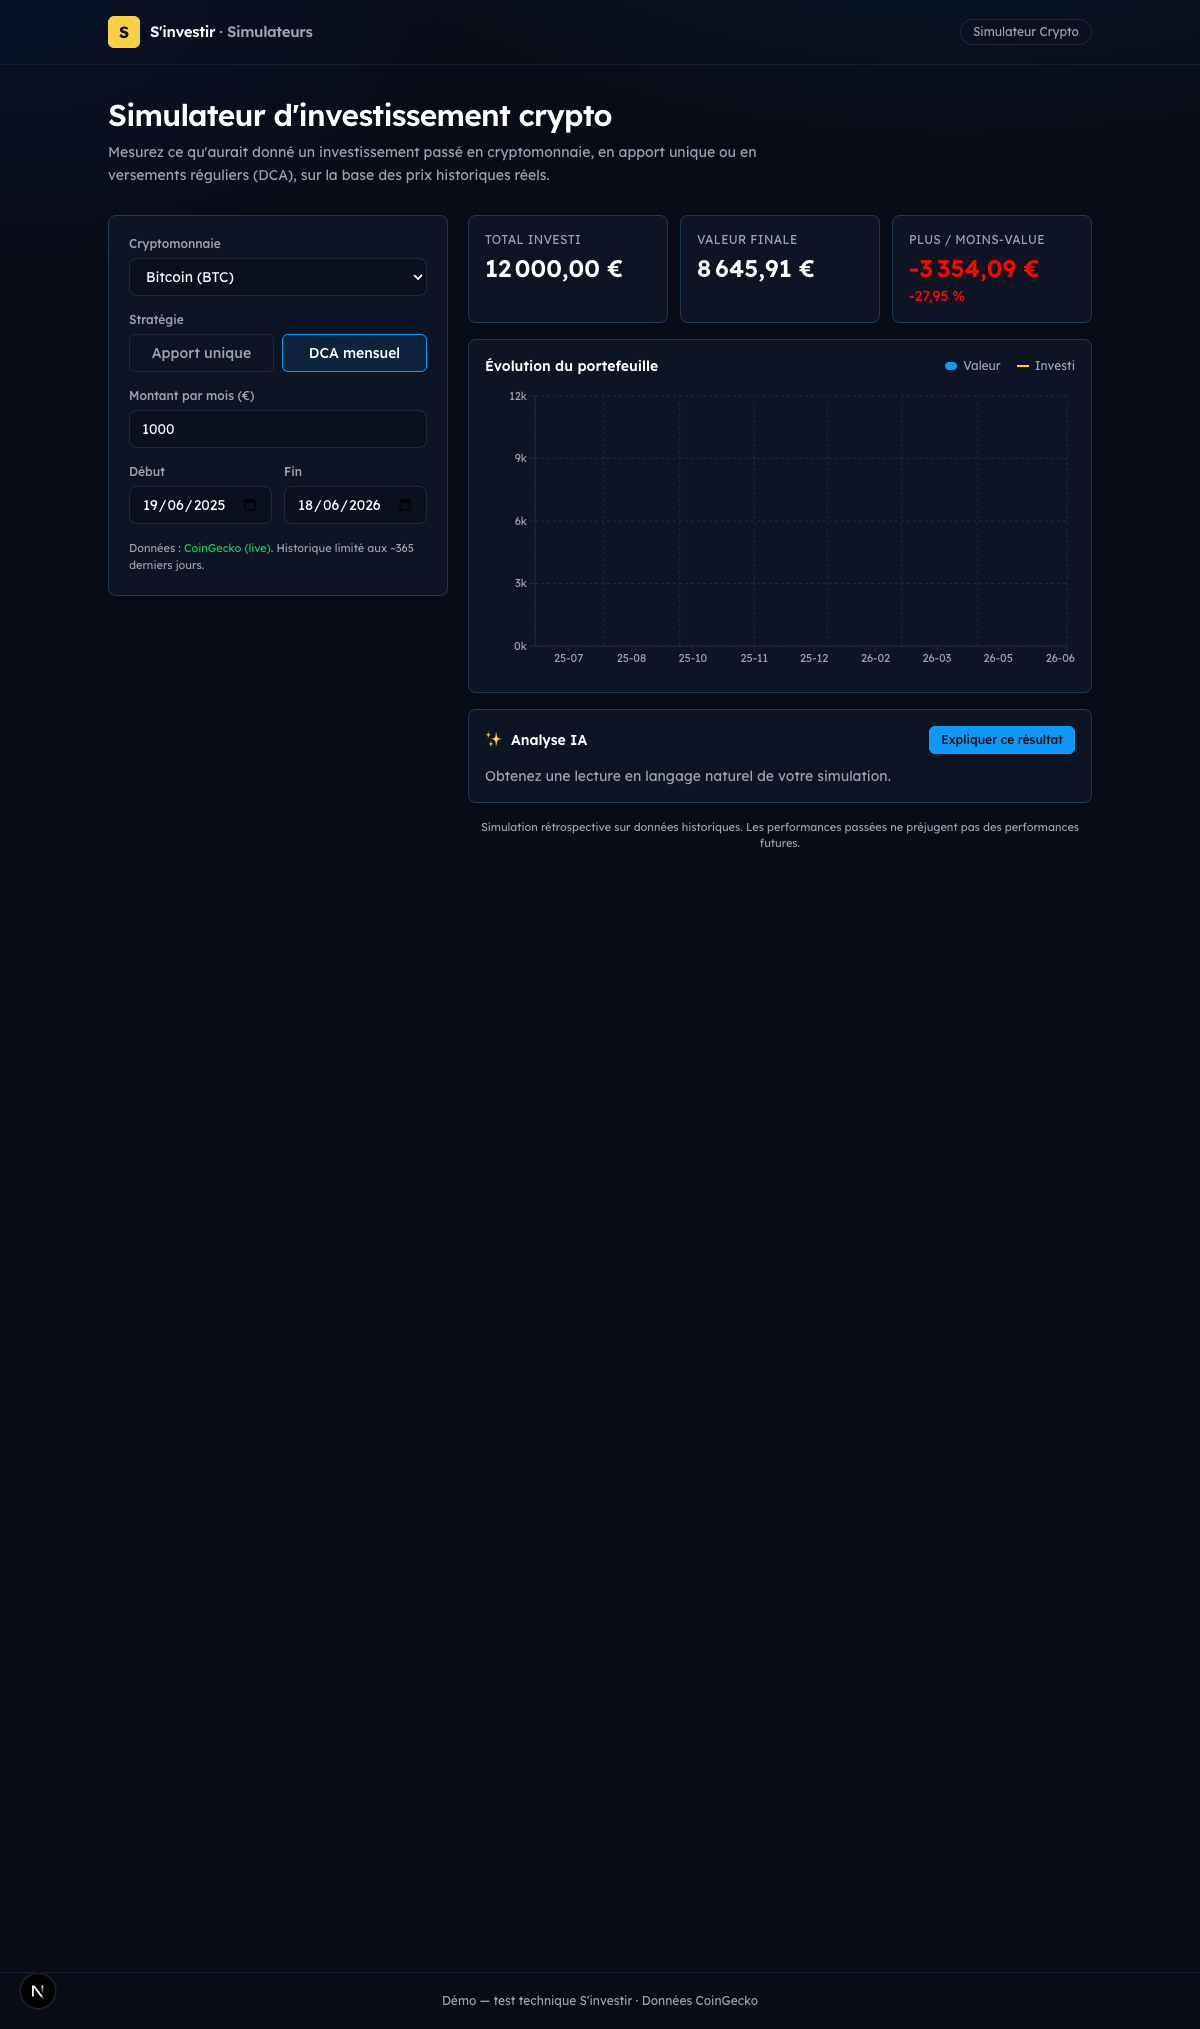
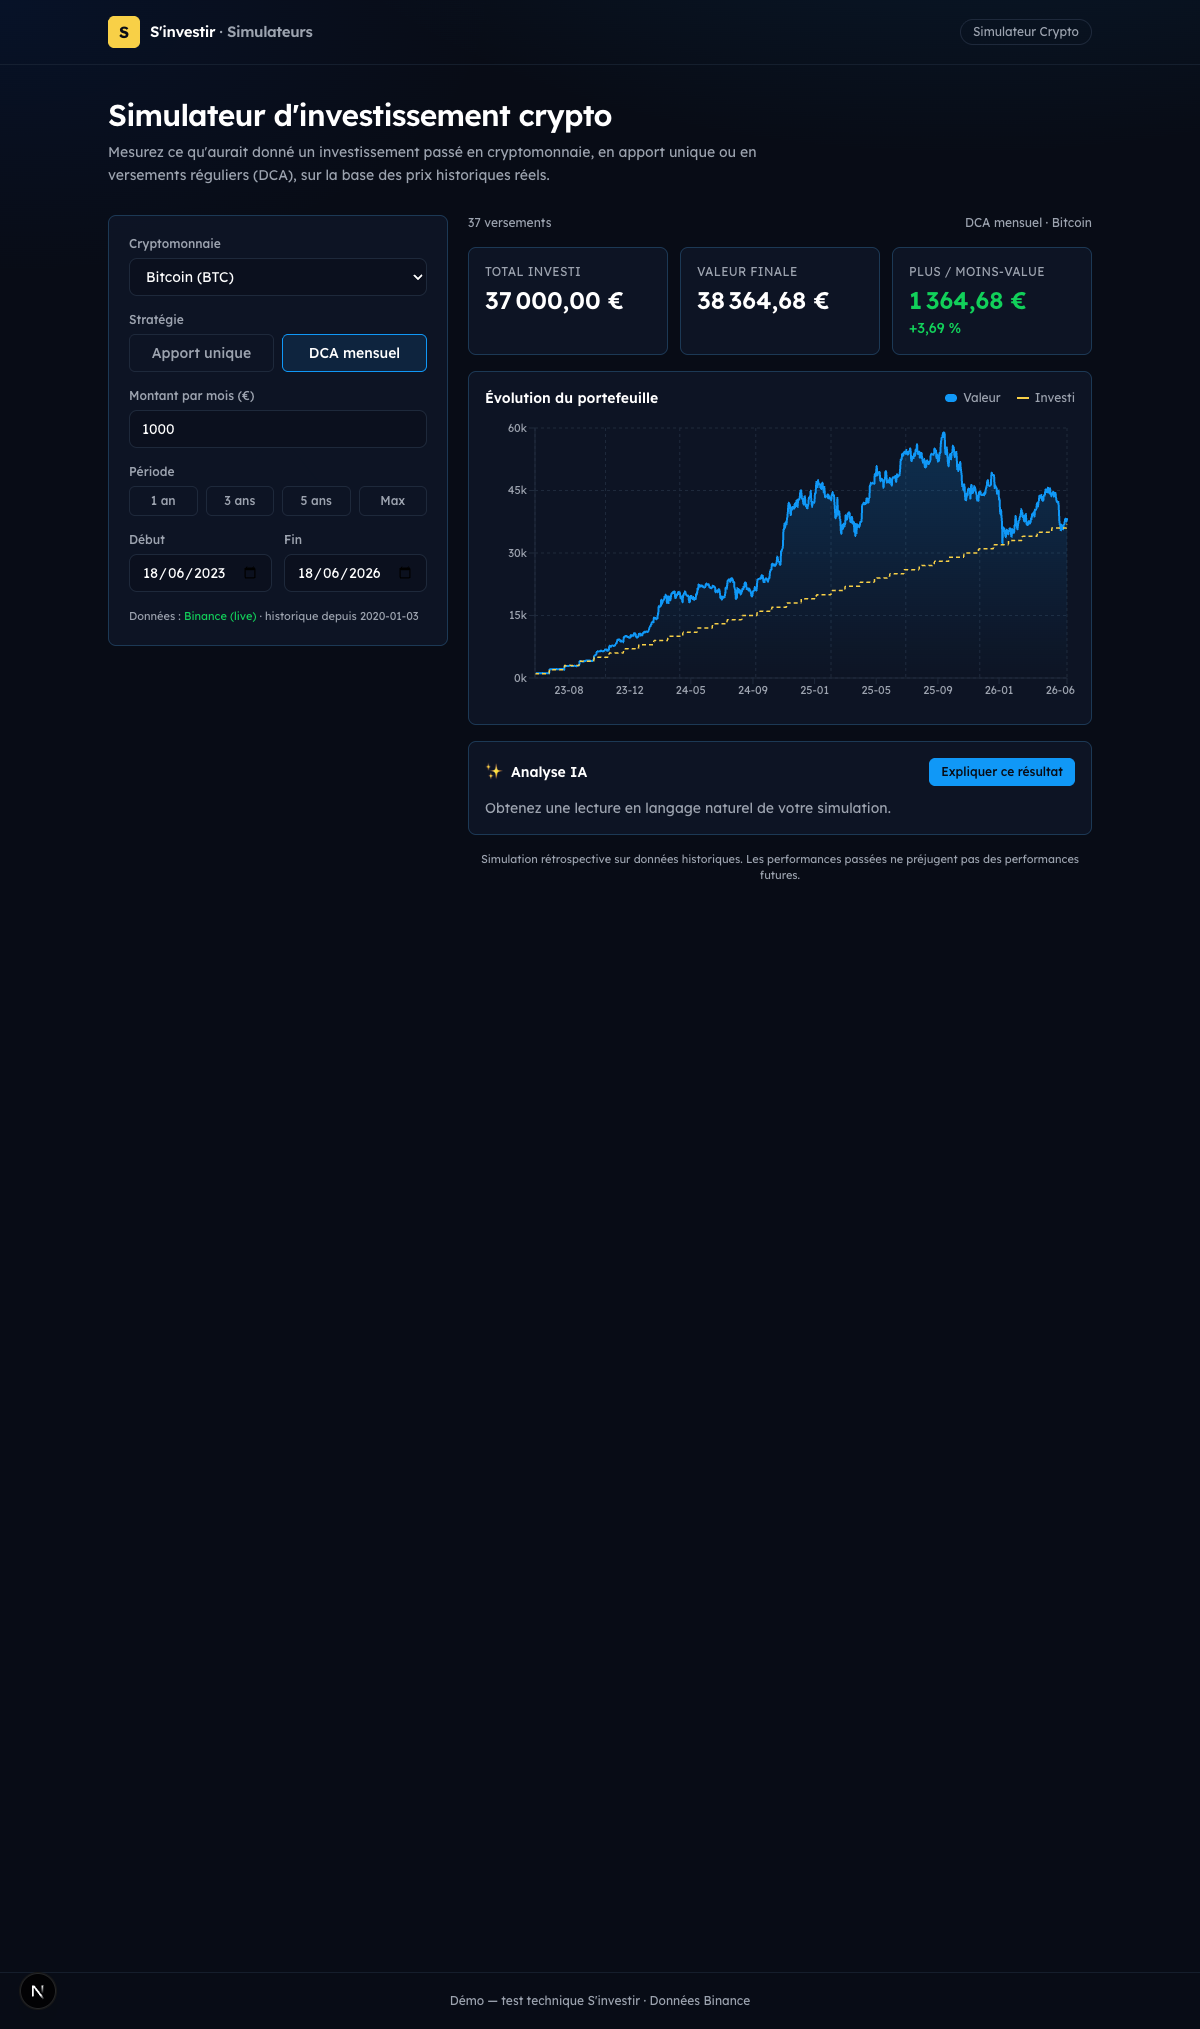
fix: champ montant effaçable, dates multi-années (Binance) + presets de période
- Bug champ montant: état texte (effacement/ressaisie OK, plus de 0 bloqué)
- Données Binance multi-années (BTC/ETH depuis 2020, SOL depuis 2021) au lieu de CoinGecko 365j
- Presets de période (1/3/5 ans, Max), bornes de date dynamiques sur tout l'historique
- Région Vercel fra1 (Binance bloque les IP US)
- Validation début<fin, états vides gérés

diff --git a/src/components/Simulator.tsx b/src/components/Simulator.tsx
@@ -8,6 +8,13 @@ import { ResultCards } from "./ResultCards";
 import { EvolutionChart } from "./EvolutionChart";
 import { AiExplanation } from "./AiExplanation";
 
+const PRESETS: { label: string; years: number | "max" }[] = [
+  { label: "1 an", years: 1 },
+  { label: "3 ans", years: 3 },
+  { label: "5 ans", years: 5 },
+  { label: "Max", years: "max" },
+];
+
 /**
  * Composant autonome et embarquable.
  * Aucune dépendance à un état global : il peut être déposé tel quel dans
@@ -15,7 +22,8 @@ import { AiExplanation } from "./AiExplanation";
  */
 export function Simulator() {
   const [coinId, setCoinId] = useState("bitcoin");
-  const [amount, setAmount] = useState(1000);
+  // Le montant est stocké en texte pour permettre l'effacement du champ.
+  const [amountText, setAmountText] = useState("1000");
   const [frequency, setFrequency] = useState<Frequency>("monthly");
   const [startDate, setStartDate] = useState("");
   const [endDate, setEndDate] = useState("");
@@ -24,6 +32,8 @@ export function Simulator() {
   const [source, setSource] = useState<"live" | "snapshot" | null>(null);
   const [loading, setLoading] = useState(true);
   const [error, setError] = useState<string | null>(null);
+
+  const amount = Math.max(0, Number(amountText.replace(",", ".")) || 0);
 
   // Charge les prix à chaque changement de crypto.
   useEffect(() => {
@@ -38,8 +48,11 @@ export function Simulator() {
         setPrices(pts);
         setSource(data.source ?? null);
         if (pts.length > 0) {
-          setStartDate(pts[0].date);
-          setEndDate(pts[pts.length - 1].date);
+          const min = pts[0].date;
+          const max = pts[pts.length - 1].date;
+          // Période par défaut : 3 dernières années (ou tout l'historique si plus court).
+          setEndDate(max);
+          setStartDate(maxIso(subYears(max, 3), min));
         }
       })
       .catch(() => !cancelled && setError("Chargement des prix impossible."))
@@ -49,10 +62,19 @@ export function Simulator() {
     };
   }, [coinId]);
 
+  const bounds = useMemo(
+    () =>
+      prices.length > 0
+        ? { min: prices[0].date, max: prices[prices.length - 1].date }
+        : { min: "", max: "" },
+    [prices],
+  );
+
   const input: SimulationInput = { coinId, amount, frequency, startDate, endDate };
 
   const result = useMemo(() => {
     if (prices.length === 0 || !startDate || !endDate || amount <= 0) return null;
+    if (startDate > endDate) return null;
     try {
       return simulate(input, prices);
     } catch {
@@ -61,14 +83,14 @@ export function Simulator() {
     // eslint-disable-next-line react-hooks/exhaustive-deps
   }, [prices, coinId, amount, frequency, startDate, endDate]);
 
+  function applyPreset(years: number | "max") {
+    if (!bounds.max) return;
+    setEndDate(bounds.max);
+    setStartDate(years === "max" ? bounds.min : maxIso(subYears(bounds.max, years), bounds.min));
+  }
+
   const coin = getCoin(coinId)!;
-  const bounds = useMemo(
-    () =>
-      prices.length > 0
-        ? { min: prices[0].date, max: prices[prices.length - 1].date }
-        : { min: "", max: "" },
-    [prices],
-  );
+  const invalidRange = Boolean(startDate && endDate && startDate > endDate);
 
   return (
     <div className="grid grid-cols-1 gap-5 lg:grid-cols-[340px_1fr]">
@@ -103,18 +125,31 @@ export function Simulator() {
         </Field>
 
         <Field
-          label={
-            frequency === "lump" ? "Montant investi (€)" : "Montant par mois (€)"
-          }
+          label={frequency === "lump" ? "Montant investi (€)" : "Montant par mois (€)"}
         >
           <input
-            type="number"
-            min={1}
-            step={50}
+            type="text"
+            inputMode="decimal"
+            placeholder="1000"
             className="field w-full px-3 py-2 text-sm tabular-nums"
-            value={amount}
-            onChange={(e) => setAmount(Number(e.target.value))}
+            value={amountText}
+            onChange={(e) => setAmountText(e.target.value.replace(/[^\d.,]/g, ""))}
           />
+        </Field>
+
+        <Field label="Période">
+          <div className="grid grid-cols-4 gap-2">
+            {PRESETS.map((p) => (
+              <button
+                key={p.label}
+                type="button"
+                onClick={() => applyPreset(p.years)}
+                className="rounded-md border border-border px-2 py-1.5 text-xs font-medium text-muted transition hover:border-brand hover:text-foreground"
+              >
+                {p.label}
+              </button>
+            ))}
+          </div>
         </Field>
 
         <div className="grid grid-cols-2 gap-3">
@@ -140,16 +175,22 @@ export function Simulator() {
           </Field>
         </div>
 
+        {invalidRange && (
+          <p className="text-xs" style={{ color: "var(--loss)" }}>
+            La date de début doit précéder la date de fin.
+          </p>
+        )}
+
         <p className="text-[11px] leading-relaxed text-muted">
           Données :{" "}
           {source === "live" ? (
-            <span style={{ color: "var(--gain)" }}>CoinGecko (live)</span>
+            <span style={{ color: "var(--gain)" }}>Binance (live)</span>
           ) : source === "snapshot" ? (
             <span style={{ color: "var(--gold)" }}>snapshot local (fallback)</span>
           ) : (
             "…"
           )}
-          . Historique limité aux ~365 derniers jours.
+          {bounds.min && ` · historique depuis ${bounds.min}`}
         </p>
       </form>
 
@@ -167,8 +208,25 @@ export function Simulator() {
           </div>
         )}
 
+        {!loading && !result && !error && (
+          <div className="card-glass p-8 text-center text-sm text-muted">
+            {amount <= 0
+              ? "Saisissez un montant pour lancer la simulation."
+              : "Ajustez la période pour voir un résultat."}
+          </div>
+        )}
+
         {result && (
           <>
+            <div className="flex items-center justify-between text-xs text-muted">
+              <span>
+                {result.contributions} versement{result.contributions > 1 ? "s" : ""}
+              </span>
+              <span>
+                {frequency === "monthly" ? "DCA mensuel" : "Apport unique"} ·{" "}
+                {coin.name}
+              </span>
+            </div>
             <ResultCards result={result} />
             <EvolutionChart series={result.series} />
             <AiExplanation input={input} result={result} coinName={coin.name} />
@@ -181,6 +239,17 @@ export function Simulator() {
       </div>
     </div>
   );
+}
+
+/** Soustrait n années à une date ISO (YYYY-MM-DD). */
+function subYears(iso: string, n: number): string {
+  const [y, m, d] = iso.split("-").map(Number);
+  return `${y - n}-${String(m).padStart(2, "0")}-${String(d).padStart(2, "0")}`;
+}
+
+/** Renvoie la plus grande des deux dates ISO. */
+function maxIso(a: string, b: string): string {
+  return a >= b ? a : b;
 }
 
 function Field({ label, children }: { label: string; children: React.ReactNode }) {

diff --git a/src/lib/prices.ts b/src/lib/prices.ts
@@ -3,20 +3,27 @@ import snapshot from "@/data/snapshot.json";
 
 const SNAPSHOT = snapshot as Record<string, PricePoint[]>;
 
+/** Mapping vers les paires EUR de Binance. */
+const BINANCE_PAIR: Record<string, string> = {
+  bitcoin: "BTCEUR",
+  ethereum: "ETHEUR",
+  solana: "SOLEUR",
+};
+
 export interface PricesResult {
   prices: PricePoint[];
-  /** "live" si CoinGecko a répondu, "snapshot" si on est retombé sur le fallback. */
+  /** "live" si Binance a répondu, "snapshot" si on est retombé sur le fallback. */
   source: "live" | "snapshot";
 }
 
 /**
  * Récupère l'historique journalier (EUR) d'une crypto.
- * Stratégie hybride : CoinGecko en live, repli sur le snapshot embarqué en cas d'échec
- * (API down, quota dépassé, hors-ligne).
+ * Stratégie hybride : Binance en live (multi-années), repli sur le snapshot
+ * embarqué en cas d'échec (API down, géo-blocage, hors-ligne).
  */
 export async function getPrices(coinId: string): Promise<PricesResult> {
   try {
-    const live = await fetchFromCoinGecko(coinId);
+    const live = await fetchFromBinance(coinId);
     if (live.length > 0) return { prices: live, source: "live" };
   } catch {
     // on bascule sur le fallback ci-dessous
@@ -24,32 +31,39 @@ export async function getPrices(coinId: string): Promise<PricesResult> {
   return { prices: SNAPSHOT[coinId] ?? [], source: "snapshot" };
 }
 
-async function fetchFromCoinGecko(coinId: string): Promise<PricePoint[]> {
-  const url =
-    `https://api.coingecko.com/api/v3/coins/${coinId}/market_chart` +
-    `?vs_currency=eur&days=365`;
+async function fetchFromBinance(coinId: string): Promise<PricePoint[]> {
+  const symbol = BINANCE_PAIR[coinId];
+  if (!symbol) return [];
 
-  const res = await fetch(url, {
-    headers: { Accept: "application/json" },
-    // Cache CoinGecko 1h côté serveur Next pour limiter les appels / le quota.
-    next: { revalidate: 3600 },
-  });
-  if (!res.ok) throw new Error(`CoinGecko ${res.status}`);
-
-  const data = (await res.json()) as { prices: [number, number][] };
   const byDay = new Map<string, number>();
-  for (const [ms, price] of data.prices) {
-    const date = new Date(ms).toISOString().slice(0, 10);
-    byDay.set(date, Math.round(price * 100) / 100); // dernier prix du jour
+  let endTime: number | undefined;
+
+  // Pagination : Binance limite à 1000 bougies/appel. On remonte jusqu'à ~8 ans.
+  for (let i = 0; i < 3; i++) {
+    let url =
+      `https://api.binance.com/api/v3/klines` +
+      `?symbol=${symbol}&interval=1d&limit=1000`;
+    if (endTime) url += `&endTime=${endTime}`;
+
+    const res = await fetch(url, {
+      headers: { Accept: "application/json" },
+      // Cache 1h côté serveur Next pour limiter les appels.
+      next: { revalidate: 3600 },
+    });
+    if (!res.ok) throw new Error(`Binance ${res.status}`);
+
+    const klines = (await res.json()) as [number, string, string, string, string][];
+    if (!Array.isArray(klines) || klines.length === 0) break;
+
+    for (const k of klines) {
+      const date = new Date(k[0]).toISOString().slice(0, 10);
+      byDay.set(date, Math.round(parseFloat(k[4]) * 100) / 100); // close
+    }
+    endTime = klines[0][0] - 1; // juste avant la plus ancienne bougie
+    if (klines.length < 1000) break;
   }
+
   return [...byDay.entries()]
     .map(([date, price]) => ({ date, price }))
     .sort((a, b) => a.date.localeCompare(b.date));
-}
-
-/** Bornes de dates disponibles (basées sur le snapshot, ~365 derniers jours). */
-export function availableRange(coinId: string): { min: string; max: string } {
-  const s = SNAPSHOT[coinId] ?? [];
-  if (s.length === 0) return { min: "", max: "" };
-  return { min: s[0].date, max: s[s.length - 1].date };
 }

diff --git a/src/app/page.tsx b/src/app/page.tsx
@@ -19,7 +19,7 @@ export default function Home() {
         <Simulator />
       </main>
       <footer className="border-t border-border/60 py-5 text-center text-xs text-muted">
-        Démo — test technique S&apos;investir · Données CoinGecko
+        Démo — test technique S&apos;investir · Données Binance
       </footer>
     </>
   );

diff --git a/README.md b/README.md
@@ -16,7 +16,8 @@ Transposition du [simulateur crypto S'investir](https://sinvestir.fr/simulateur-
 - Deux stratégies : **apport unique** (lump sum) et **DCA mensuel** (versements réguliers).
 - Résultats : total investi, valeur finale, **plus/moins-value (€ et %)** + **graphique d'évolution** (valeur vs investi).
 - **Analyse IA** : explication du résultat en langage naturel (modèle Claude via OpenRouter).
-- Données de prix **hybrides** : CoinGecko en live, **repli automatique** sur un snapshot local si l'API échoue.
+- Données de prix **hybrides** : Binance en live (historique **multi-années**), **repli automatique** sur un snapshot local si l'API échoue.
+- **Présélections de période** (1 an / 3 ans / 5 ans / Max) en plus du choix de dates libre.
 - Thème fidèle à `simulateurs.sinvestir.fr`, **responsive** desktop/mobile.
 
 ## 🚀 Lancer en local
@@ -38,7 +39,7 @@ pnpm dev                     # http://localhost:3000
 
 ## 🧱 Stack & partis pris
 
-**Next.js 16 (App Router) · TypeScript · Tailwind v4 · Lexend · Recharts · CoinGecko · OpenRouter (Claude) · Vercel.**
+**Next.js 16 (App Router) · TypeScript · Tailwind v4 · Lexend · Recharts · Binance API · OpenRouter (Claude) · Vercel.**
 
 - **Next.js plutôt que Nuxt** : le site vitrine `simulateurs.sinvestir.fr` est en Nuxt/Vue,
   mais la **stack interne annoncée** par S'investir est **Next.js + Supabase + Vercel**.
@@ -46,9 +47,11 @@ pnpm dev                     # http://localhost:3000
   agents IA, automatisations) tout en **reproduisant fidèlement le rendu visuel** du site.
 - **Tailwind v4** : le site cible est lui-même en Tailwind v4 (tokens OKLCH) → cohérence directe.
   La charte est centralisée en variables CSS (`src/app/globals.css`, cf. [docs/DESIGN-TOKENS.md](./docs/DESIGN-TOKENS.md)).
-- **Données hybrides (live + fallback)** : CoinGecko gratuit est limité à ~365 jours et peut
-  rate-limiter ; un snapshot embarqué (`src/data/snapshot.json`) garantit une **démo toujours
-  fonctionnelle**, même hors-ligne ou en cas de quota dépassé.
+- **Données hybrides (live + fallback)** : l'API publique **Binance** (paires EUR, sans clé)
+  fournit un historique journalier **multi-années** ; un snapshot embarqué
+  (`src/data/snapshot.json`) garantit une **démo toujours fonctionnelle**, même hors-ligne
+  ou en cas d'indisponibilité de l'API. Les fonctions serveur sont déployées en région
+  **Europe (`fra1`)** car l'API Binance bloque les IP US (région Vercel par défaut).
 - **Touche IA** : pertinente pour le poste « Dev IA ». L'appel passe par une **route serveur**
   (`/api/explain`) pour ne jamais exposer la clé côté client, avec un **fallback** si pas de clé.
 - **Calcul côté client** : le moteur (`simulate.ts`) est une **fonction pure**, recalculée
@@ -73,7 +76,7 @@ src/
 │  ├─ layout.tsx            # police Lexend + métadonnées
 │  ├─ globals.css           # charte S'investir (tokens CSS)
 │  └─ api/
-│     ├─ prices/route.ts    # prix CoinGecko + fallback snapshot
+│     ├─ prices/route.ts    # prix Binance (live) + fallback snapshot
 │     └─ explain/route.ts   # analyse IA (OpenRouter/Claude) + fallback
 ├─ components/              # Simulator, ResultCards, EvolutionChart, AiExplanation, Header
 ├─ lib/                     # types, simulate (moteur), prices, coins, format
@@ -82,7 +85,7 @@ src/
 
 ## ⚠️ Limites connues (périmètre volontairement court — ~½ journée)
 
-- Historique limité aux **~365 derniers jours** (limite du tier gratuit CoinGecko).
+- Historique : depuis **janvier 2020** (BTC/ETH) et **mai 2021** (SOL), profondeur des paires EUR Binance.
 - 3 cryptos et 2 fréquences (apport unique / DCA mensuel) — extensible facilement via `src/lib/coins.ts`.
 - Frais de transaction non modélisés.
 